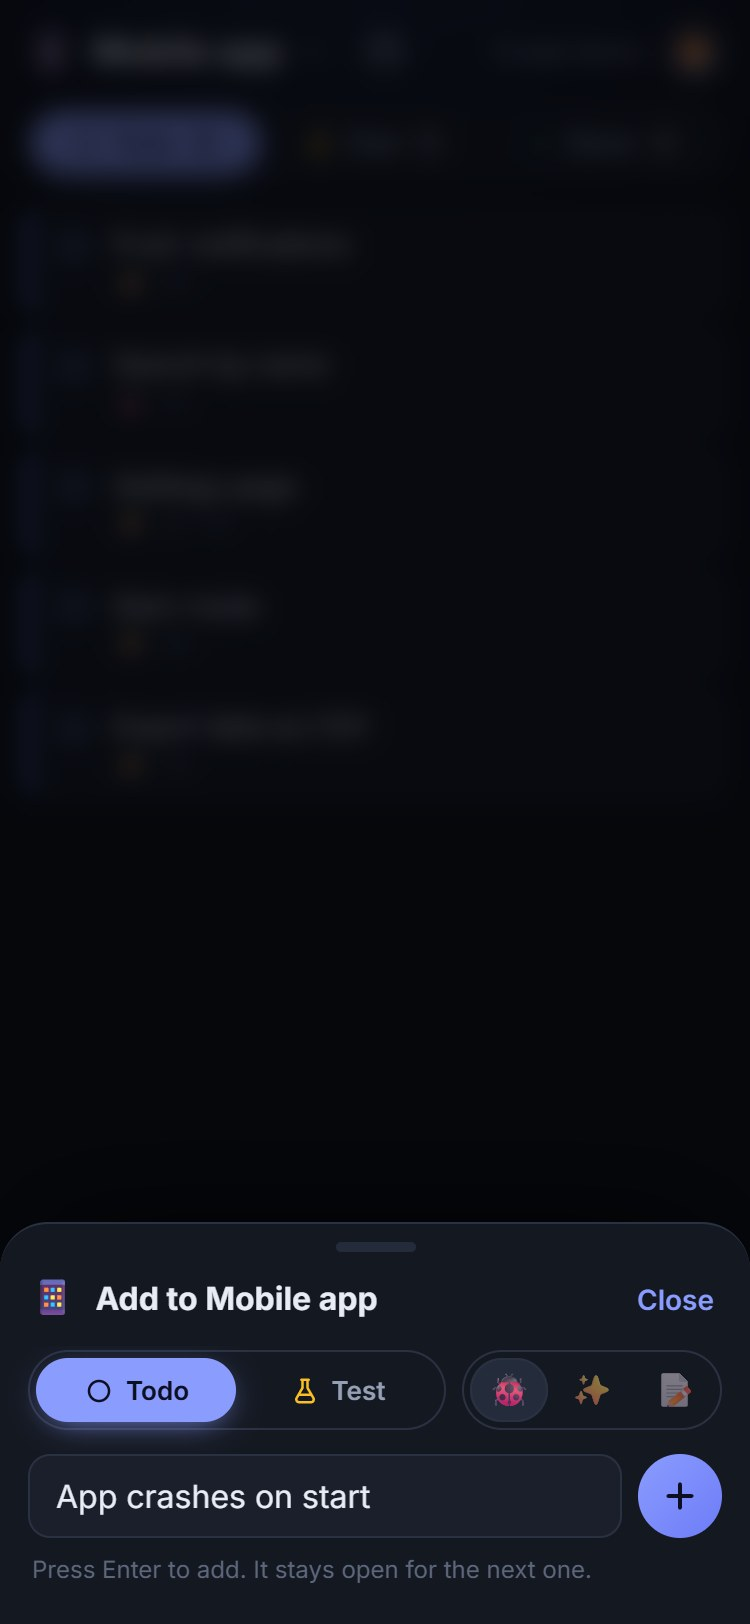
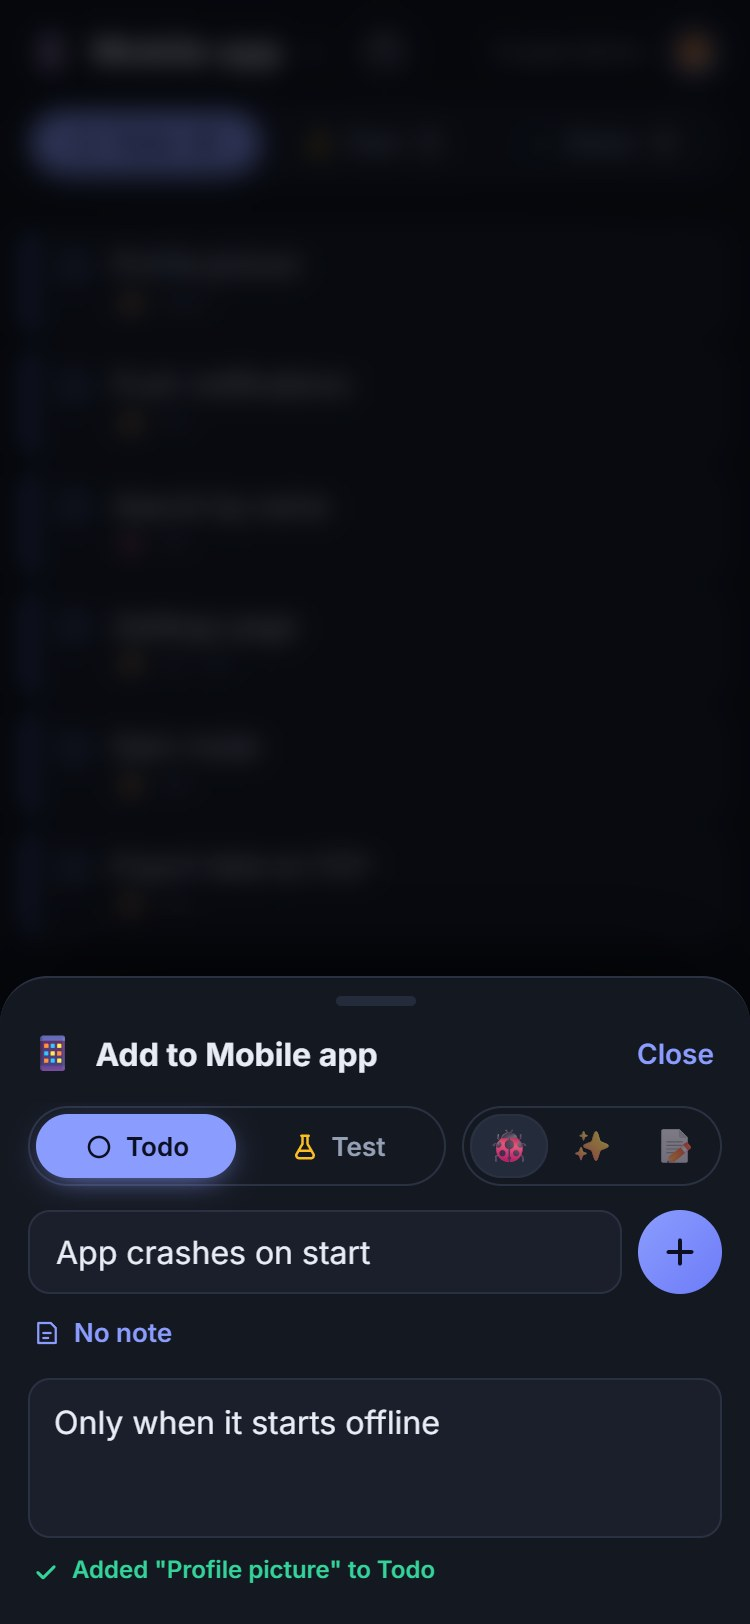
Update docs

diff --git a/project-tracker/DOCS.md b/project-tracker/DOCS.md
@@ -7,15 +7,16 @@ Keep track of what's to do and what's ready to test, for every project you're wo
 1. Open **Projects** in the Home Assistant sidebar.
 2. Tap **Add the first person** and type your name.
 3. Tap **Add your first project** and give it a name. An emoji and a color are picked for it; change them if you like.
-4. Tap the round **+** at the bottom right, type, and press Enter. That's it: it's on the **Todo** list.
+4. Tap the round **+** at the bottom right, type, and tap **+** again (or press Enter). That's it: it's on the **Todo** list.
 
 ## People
 
 Everyone in the house has their own projects. The home screen ("Who's this?") has a tile per person, with how many
-items they have open: tap yours to see your projects. Each phone or PC remembers who picked it last, so after the first
-time it opens straight on your projects.
+items they have open: tap yours to see your projects. Each phone or PC remembers who picked it last and the project
+they were on, so after the first time it opens straight where you left off.
 
-Your emoji is at the top right: tap it (or use the back button) to go back to the home screen and pick someone else.
+To pick someone else, tap your emoji at the top right of a project, or **Not *name*?** above your projects (the back
+button works too).
 On the home screen, **Add person** adds someone, and **⋯** on a tile renames them, changes their emoji, or deletes them
 (with all their projects: type **delete** to confirm, since it can't be undone).
 
@@ -32,7 +33,8 @@ Every item is in one of three lists:
 | **Done**          | Tested and finished                      |
 
 Tap the round button in front of an item to move it to the next list: Todo → Test → Done.
-A message at the bottom offers **Undo** for a few seconds; tap the message to dismiss it.
+A message at the bottom offers **Undo** for a few seconds; tap the message to dismiss it. Saving or adding an item,
+a project or a person shows a short message there too.
 
 Tap the item itself to open it: change its text, add notes (how to test it, a link, …), or move it to any list
 (e.g. back to Todo when a test fails), then tap **Save**. **Close** leaves without saving. **Delete** removes it.
@@ -44,18 +46,22 @@ The round **+** at the bottom right opens a small sheet that adds to **the proje
 🐞 bug, ✨ feature or 📝 other (the last one you picked is kept). Bugs and features show their emoji in the list;
 change it any time from the item, then tap **Save**.
 
-Type and press Enter: it's added, and the field clears for the next one, so you can add several in a row.
-Tap **Close** (or swipe the sheet down) when you're finished. On a PC, press **n** (or **+**) to open it and Escape to close it.
+Type and tap **+** (or press Enter): it's added, a green line below says what was added, and the field clears for the
+next one, so you can add several in a row. **Add a note** opens a box for notes on it (how to test it, a link, …);
+**No note** hides it again. Tap **Close** (or swipe the sheet down) when you're finished. On a PC, press **n** (or **+**) to open it and Escape to close it.
 
 ## Projects
 
-The name at the top is the project you're on. Tap it to see all your projects (just yours), the most recently active first,
-with how many items each has in Todo and Test; tap one to switch to it. With more than a few projects there's a
-search field too: type part of a name and press Enter to jump to the first match.
+After picking yourself you see your projects (just yours): the most recently active first, with how many items each
+has in Todo and Test. Tap one to open it; the back button brings you back to the list. With more than a few projects
+there's a search field too: type part of a name and press Enter to jump to the first match.
 
-In that list, **⋯** next to a project renames it, sets its GitHub repo, changes its emoji or color, clears its done items,
+Inside a project, its name is at the top: tap it for the same list in a sheet, to switch quickly. The bar at the top,
+with the Todo, Test and Done tabs, stays in place while you scroll.
+
+In both lists, **⋯** next to a project renames it, sets its GitHub repo, changes its emoji or color, clears its done items,
 or deletes it (with everything in it: type **delete** to confirm, since it can't be undone). **New project** at the
-bottom adds one.
+bottom adds one and opens it.
 
 A project with a **GitHub repo** shows GitHub's logo next to its name at the top, and on its row in the project list: tap it
 to open the repo. Set it at the
@@ -77,6 +83,20 @@ title. It reconnects by itself and the badge goes away; until then, changes made
 
 To have it like an app on your phone, open the direct address `http://<your-homeassistant-ip>:3200/` in the
 browser and choose **Add to Home Screen**. It works in the Home Assistant app too, from the sidebar.
+
+## Install as an app on Android
+
+Chrome on Android only installs an app from a secure (https) address with a trusted certificate. If Home Assistant
+already has one for your own domain (e.g. Let's Encrypt, in its `ssl` folder), the add-on can use it:
+
+1. In the add-on's **Configuration** tab, turn on **ssl**. `certfile` and `keyfile` are the certificate's files in the
+   `ssl` folder (`fullchain.pem` and `privkey.pem` by default). Restart the add-on.
+2. Make your domain point to Home Assistant's address on your home network, e.g. with a DNS rewrite in your router or
+   AdGuard Home (`ha.example.com` → `192.168.1.10`).
+3. On the phone, open `https://<your-domain>:3201/` in Chrome, then ⋮ → **Install app**.
+
+Don't forward port 3201 on your router: there are no passwords, so keep it on your home network. The plain address on
+port 3200 keeps working as before, and a renewed certificate is picked up by itself.
 
 ## Your data
 

diff --git a/project-tracker/docs/DEVELOPMENT.md b/project-tracker/docs/DEVELOPMENT.md
@@ -17,6 +17,7 @@ npm run check       # all three, as the pull request checks do
 | `PORT`       | `3200`              | Port to listen on                       |
 | `HOST`       | `0.0.0.0`           | Interface to bind                       |
 | `STATE_FILE` | `data/tracker.json` | Where projects and items are saved      |
+| `HTTPS_PORT`, `TLS_CERT`, `TLS_KEY` | off | Also serve https (PEM certificate and key, reloaded when renewed); the add-on uses 3201 with Home Assistant's certificate (`ssl` option) |
 
 The server doesn't know about Home Assistant: in the add-on, `run.sh` sets these variables.
 
@@ -32,7 +33,7 @@ config.yaml, Dockerfile, run.sh     Home Assistant add-on
 README.md, DOCS.md, CHANGELOG.md    add-on store page, Documentation tab, changelog
 
 src/                      server (Node, no framework, no dependencies)
-  server.js               entry point: load config and state, start HTTP, graceful shutdown
+  server.js               entry point: load config and state, start HTTP (and https), graceful shutdown
   config.js               environment variables
   app.js                  HTTP routes: page, static files, API
   tracker/state.js        state shape, repairing saved data, the view sent to screens
@@ -40,19 +41,21 @@ src/                      server (Node, no framework, no dependencies)
   store.js                JSON file storage: debounced, atomic writes
   sse.js                  Server-Sent Events hub for live updates
   static.js               safe static file serving
+  tls.js                  https certificate: reading it, and reloading it when it's renewed
 
 public/                   browser (plain ES modules, no build step)
   index.html              the page (markup only)
   css/                    base.css (theme, shared components), tracker.css (everything else)
   js/app.js               entry: keeps the latest view, remembers who and what you're looking at, switches
-                          home screen ↔ a person's projects, wires the parts
+                          the three screens (home → a person's projects → a project), wires the parts
   js/shared/              tracker.js (statuses and limits, also used by the server), api, dom, format, storage
   js/ui/                  reusable pieces: back (phone back button), sheet (bottom sheets, swipe to close),
                           emoji-picker (the emoji grid + a field for any emoji from the keyboard),
                           confirm (type "delete" before deleting a project or a person),
                           viewport (keeps sheets above the keyboard), toast (messages at the bottom, with Undo; a tap dismisses), icons
   js/tracker/             kind-picker (bug / feature / other, by emoji), home (who's this? a tile per person), person-sheet (new / edit person),
-                          board (the three columns), switcher (header project button + the project list),
+                          board (the three columns), project-list (a person's projects, with search: the projects
+                          screen and the switcher use it), switcher (header project button + the project list sheet),
                           add-sheet (the + button's sheet), item-sheet (one item), project-sheet (new / edit project)
 
 test/                     node:test suites
@@ -86,11 +89,18 @@ version reloads itself.
 shows; above, all three sit side by side and the tabs hide (`css/tracker.css`).
 
 **Remembered per device** (localStorage, `js/shared/storage.js`): who you are, the project you were on (per person)
-and the tab. There's no "all projects" view: you're always on one project,
-and the + adds to it.
+and the tab. Reopening goes straight back to that project, with home and the projects screen behind it in
+history. There's no "all projects" view: on the board you're always on one project, and the + adds to it.
 
-**Back button:** opening a sheet adds a history entry, so the phone's back button (and the Home Assistant app's)
-closes it instead of leaving the page (`js/ui/back.js`).
+**Screens:** home ("Who's this?") → a person's projects → a project's board. Only the board has the + button
+(`body.has-fab`, which also keeps toasts clear of it).
+
+**Back button:** opening a screen or a sheet adds a history entry, so the phone's back button (and the Home Assistant
+app's) goes back a step instead of leaving the page (`js/ui/back.js`). Each entry stores its depth, so going back
+any number of steps runs the right handlers, also after a reload.
+
+**Sheets** freeze the page behind them while open (`body.locked`), so the iPhone keyboard can't scroll it out from
+under the sheet.
 
 **Paths are relative** (`api/actions`, `css/…`), so the app also works in the Home Assistant
 sidebar, which serves it under `/api/hassio_ingress/<token>/`.

diff --git a/README.md b/README.md
@@ -2,17 +2,11 @@
 
 A to-do and ready-to-test tracker for every project you're working on, as a Home Assistant add-on.
 
-Pick yourself on the home screen to see your own projects.
-Add a project, tap **+** to jot down what's to do, and move each item along with one tap:
-**Todo** → **Test** → **Done**. Made for phones, in portrait; on a PC the three lists sit side by side.
-
 <p>
   <img src="images/home.jpg" alt="The home screen: pick yourself to see your projects" width="200">
-  <img src="images/todo.jpg" alt="A project's Todo list, with the project's emoji and name at the top" width="200">
-  <img src="images/test.jpg" alt="The Test list: things built and waiting to be tried" width="200">
-  <img src="images/item.jpg" alt="An item opened: its text, status and notes on how to test it" width="200">
-  <img src="images/add.jpg" alt="Adding an item: type and press Enter, the sheet stays open for the next one" width="200">
-  <img src="images/projects.jpg" alt="Switching project: every project with what's open in it" width="200">
+  <img src="images/projects.jpg" alt="Your projects, with what's open in each: pick one to work on" width="200">
+  <img src="images/todo.jpg" alt="A project's Todo list, with the Todo, Test and Done tabs at the top" width="200">
+  <img src="images/add.jpg" alt="Adding an item, with a note: the sheet stays open for the next one" width="200">
 </p>
 <p>
   <img src="images/desktop.jpg" alt="On a PC: Todo, Test and Done side by side" width="820">
@@ -34,12 +28,11 @@ Add this repository to Home Assistant:
 Keep track of what's to do and what's ready to test, per project.
 
 **Features:**
-- Everyone has their own projects: pick yourself on the home screen
-- A project per thing you work on, each with its own emoji, and a link to its GitHub repo
-- Todo, Test and Done lists, with notes on any item
-- Mark items as 🐞 bug, ✨ feature or 📝 other
-- Quick add: tap +, type, press Enter, and the next one
-- Live on every screen: phone and PC at the same time
+- Everyone has their own projects, each with an emoji and a link to its GitHub repo
+- **Todo**, **Test** and **Done** lists; one tap moves an item along
+- Quick add: tap +, type, and the next one
+- Notes and 🐞 bug / ✨ feature / 📝 other on any item
+- Phone and PC, live on every screen
 
 [Documentation →](./project-tracker/README.md)
 

diff --git a/project-tracker/README.md b/project-tracker/README.md
@@ -5,15 +5,11 @@ from your phone, and just as usable from a PC.
 
 ## Features
 
-- Everyone has their own projects: pick yourself on the home screen
-- A project per thing you work on, each with its own emoji, and a one-tap link to its GitHub repo
-- Three lists: **Todo**, **Test** and **Done**; one tap moves an item to the next
-- Mark items as 🐞 bug, ✨ feature or 📝 other
-- Quick add: tap +, type, press Enter; add several in a row
-- Notes on any item (how to test it, links, …)
-- Deleting a whole project or person asks you to type "delete" first
-- Phones show one list at a time; wide screens show all three side by side
-- Every open screen updates at once
+- Everyone has their own projects, each with an emoji and a link to its GitHub repo
+- **Todo**, **Test** and **Done** lists; one tap moves an item along
+- Quick add: tap +, type, and the next one
+- Notes and 🐞 bug / ✨ feature / 📝 other on any item
+- Phone and PC, live on every screen
 
 ## Installation
 
@@ -24,12 +20,19 @@ from your phone, and just as usable from a PC.
 
 ## Configuration
 
-None needed.
+None needed. Optional:
+
+| Option | Type | Default | Description |
+|--------|------|---------|-------------|
+| ssl | bool | false | Also serve https on port 3201 with Home Assistant's own certificate, so Android can install the app |
+| certfile | str | fullchain.pem | Certificate in Home Assistant's `ssl` folder |
+| keyfile | str | privkey.pem | Its key, in the `ssl` folder |
 
 ## Usage
 
 Open **Projects** in the Home Assistant sidebar
 or go straight to `http://<your-homeassistant-ip>:3200/`.
+With `ssl` on, the secure address is `https://<your-domain>:3201/` (see the Documentation tab).
 
 ## Development
 
